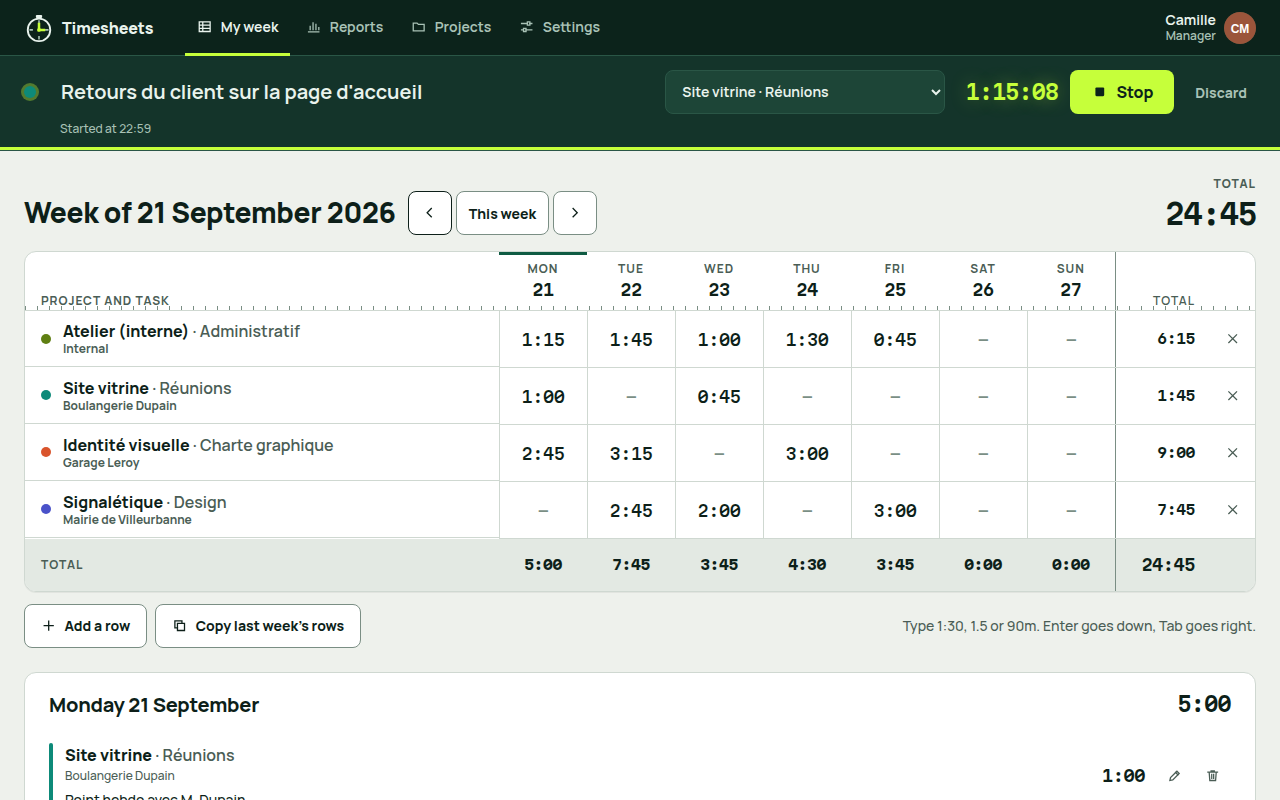
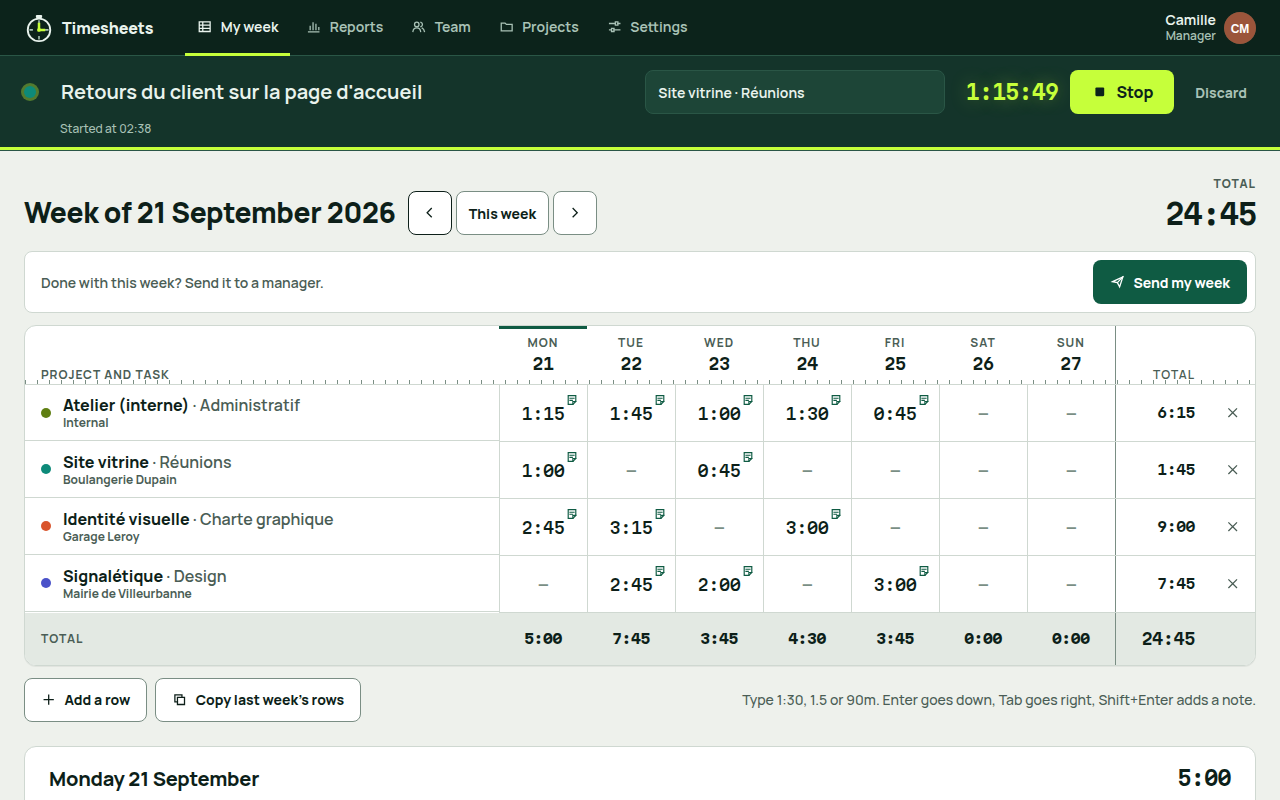
Timesheets after the critique: dated rates (a change never rewrites the past; person, project and cost rates; margin for managers only), weekly send and approve with a lock, a Team page of missing time with Remind, budget alerts at 80 and 100 percent, imports keep departed people and ask before lock
Claude-Session: https://claude.ai/code/session_01JLMdsrCCxLjBpzyUbVXNzX

diff --git a/tools/private/timesheets/app/chest/week-view.tsx b/tools/private/timesheets/app/chest/week-view.tsx
@@ -152,9 +152,9 @@ export function WeekView(props: {
         </div>
       </header>
 
-      {standing.approvals && (
+      {standing.approvals && (standing.status !== "open" || (standing.canSubmit && total > 0)) && (
         <div className={`standing ${standing.status}`} role="status">
-          {standing.status === "open" && standing.canSubmit && (
+          {standing.status === "open" && (
             <>
               <span>{t.week.sendHint}</span>
               <button type="button" className="button" disabled={pending} onClick={send}><Send />{t.week.send}</button>
@@ -162,14 +162,14 @@ export function WeekView(props: {
           )}
           {standing.status === "submitted" && (
             <>
-              <span className="state"><Send />{t.week.submitted}</span>
+              <span className="state"><Send /><span>{t.week.submitted}</span></span>
               <button type="button" className="button link" disabled={pending} onClick={takeBack}>{t.week.takeBack}</button>
             </>
           )}
-          {standing.status === "approved" && <span className="state"><Check />{standing.text}</span>}
+          {standing.status === "approved" && <span className="state"><Check /><span>{standing.text}</span></span>}
           {standing.status === "returned" && (
             <>
-              <span className="state">{standing.text}{standing.reason && <q className="reason">{standing.reason}</q>}</span>
+              <span className="state"><span>{standing.text} {standing.reason && <q className="reason">{standing.reason}</q>}</span></span>
               <button type="button" className="button" disabled={pending} onClick={send}><Send />{t.week.sendAgain}</button>
             </>
           )}
@@ -220,7 +220,8 @@ export function WeekView(props: {
                           const why = c.invoiced ? ` (${t.week.invoiced})` : "";
                           return (
                             <td key={d.day} className={classes + " ro"}>
-                              <span className="num" aria-label={`${label}: ${formatDuration(c.minutes)}${why}${c.note ? `. ${c.note}` : ""}`} title={c.note || undefined}>{c.minutes ? formatDuration(c.minutes) : ""}</span>
+                              <span className="num" aria-hidden="true" title={c.note || undefined}>{c.minutes ? formatDuration(c.minutes) : ""}</span>
+                              <span className="visually-hidden">{`${label}: ${formatDuration(c.minutes)}${why}${c.note ? `. ${c.note}` : ""}`}</span>
                               {c.note && <span className="note-dot static" aria-hidden="true" />}
                             </td>
                           );

diff --git a/tools/private/timesheets/app/globals.css b/tools/private/timesheets/app/globals.css
@@ -381,7 +381,8 @@ select.field { padding-right: var(--space-6); }
 
 /* ——— The week's standing in the approval ——— */
 .standing { display: flex; flex-wrap: wrap; align-items: center; justify-content: space-between; gap: var(--space-3); padding: var(--space-2) var(--space-2) var(--space-2) var(--space-4); margin-bottom: var(--space-3); border-radius: var(--radius-m); background: var(--surface); border: 1px solid var(--line); font-weight: 600; font-size: var(--text-s); min-height: 56px; }
-.standing .state { display: inline-flex; align-items: center; gap: var(--space-2); flex-wrap: wrap; }
+.standing .state { display: inline-flex; align-items: flex-start; gap: var(--space-2); flex: 1 1 16rem; min-width: 0; }
+.standing .state > svg { margin-top: 3px; }
 .standing.submitted { background: var(--accent-soft); border-color: var(--accent-soft); color: var(--accent); }
 .standing.approved { background: var(--accent-soft); border-color: var(--accent-soft); color: var(--accent); }
 .standing.returned { background: var(--warn-soft); border-color: var(--warn-soft); color: var(--warn); }
@@ -472,6 +473,7 @@ select.field { padding-right: var(--space-6); }
   }
   .tabs a { flex-direction: column; gap: 2px; min-height: 60px; font-size: var(--text-xs); border-bottom: 0; border-top: 3px solid transparent; flex: 1; justify-content: center; margin: 0; }
   .tabs a[aria-current="page"] { border-top-color: var(--signal); }
+  .tabs a { padding: 0 2px; white-space: nowrap; min-width: 0; }
   .tabs svg { width: 22px; height: 22px; }
   body { padding-bottom: 72px; }
   .toasts { bottom: 84px; }

diff --git a/tools/private/timesheets/app/chest/team/[member]/page.tsx b/tools/private/timesheets/app/chest/team/[member]/page.tsx
@@ -44,7 +44,7 @@ export default async function PersonWeekPage({ params, searchParams }: { params:
   }
   const statusText = state.status === "approved" ? format(t.week.approvedBy, { name: decider, date: state.decidedAt ? formatDate(state.decidedAt, zone(), locale, { day: "numeric", month: "short" }) : "" })
     : state.status === "returned" ? `${format(t.week.returnedBy, { name: decider })} “${state.reason}”`
-    : state.status === "submitted" ? t.team.states.sent : t.team.notSent;
+    : state.status === "submitted" ? format(t.team.sentOn, { date: state.submittedAt ? formatDate(state.submittedAt, zone(), locale, { weekday: "long", day: "numeric", month: "short" }) : "" }) : t.team.notSent;
   const link = (w: string) => `/chest/team/${memberId}?week=${w}`;
   return (
     <main className="page wide">
@@ -69,7 +69,7 @@ export default async function PersonWeekPage({ params, searchParams }: { params:
 
       {entries.length === 0 ? <div className="empty"><p>{t.team.emptyWeek}</p></div> : (
         <>
-          <div className="grid-scroll read">
+          <div className="grid-scroll read" tabIndex={0} role="region" aria-label={t.team.weeks}>
             <table className="grid">
               <thead>
                 <tr>

diff --git a/tools/private/timesheets/test/reports.test.ts b/tools/private/timesheets/test/reports.test.ts
@@ -109,3 +109,11 @@ test("the CSV is in the reader's language: French with ';' and decimal commas, n
   assert.equal((await GET(new Request(url))).status, 401);
   assert.equal((await GET(withMember(new Request(url), nora))).status, 403);
 });
+
+test("the CSV follows preset= alone (last week: nothing of this week)", async () => {
+  const url = "http://tool.test/chest/reports/export?preset=lastWeek";
+  const rows = (await (await GET(withMember(new Request(url), { ...camille, locale: "en" }))).text()).replace(/^/u, "").trim().split("\r\n");
+  const lastMonday = addDays(monday, -7);
+  assert.ok(rows.slice(1).every(r => r >= lastMonday && r < monday), rows.join("\n"));
+  assert.match((await GET(withMember(new Request(url), camille))).headers.get("Content-Disposition") ?? "", new RegExp(`temps-${lastMonday}-${addDays(lastMonday, 6)}`, "u"));
+});

diff --git a/tools/private/timesheets/app/chest/people/page.tsx b/tools/private/timesheets/app/chest/people/page.tsx
@@ -49,7 +49,7 @@ export default async function PeoplePage() {
       week: mine,
       billText: bill.length ? describe(bill).join(" · ") : null,
       costText: cost.length ? describe(cost).join(" · ") : null,
-      weekText: formatDuration(mine ?? s.reminder.minutes) + (mine === null ? ` (${t.people.companyWeek})` : ""),
+      weekText: formatDuration(mine ?? s.reminder.minutes) + (mine === null ? ` · ${t.people.companyWeek}` : ""),
       steps: [...bill.map(x => ({ kind: "bill" as const, from: x.from, label: describe([x])[0]! })), ...cost.map(x => ({ kind: "cost" as const, from: x.from, label: describe([x])[0]! }))].filter(x => s.lockedUntil === null || x.from > s.lockedUntil),
     };
   }).sort((a, b) => a.name.localeCompare(b.name, locale));

diff --git a/tools/private/timesheets/app/chest/people/people-view.tsx b/tools/private/timesheets/app/chest/people/people-view.tsx
@@ -79,7 +79,7 @@ export function PersonRow({ person, today, lockedUntil, companyWeek, currency, c
         <dl className="person-facts">
           <div><dt>{w.bill}</dt><dd>{person.billText ?? <span className="muted">{w.noRate}</span>}</dd></div>
           <div><dt>{w.cost}</dt><dd>{person.costText ?? <span className="muted">{w.noRate}</span>}</dd></div>
-          <div><dt>{w.week}</dt><dd className="num">{person.weekText}</dd></div>
+          <div><dt>{w.week}</dt><dd>{person.weekText}</dd></div>
         </dl>
       ) : (
         <form className="person-form" onSubmit={e => { e.preventDefault(); save(); }}>

diff --git a/tools/private/timesheets/lib/i18n/fr.ts b/tools/private/timesheets/lib/i18n/fr.ts
@@ -216,6 +216,7 @@ export const fr: Catalogue = {
     remind: { one: "Rappeler {count} personne", other: "Rappeler {count} personnes" },
     reminded: { zero: "Plus personne à rappeler.", one: "{count} personne rappelée dans sa cloche.", other: "{count} personnes rappelées dans leur cloche." },
     notSent: "Pas encore envoyée.",
+    sentOn: "Envoyée pour validation le {date}.",
     ofUsual: "{billable} facturables · semaine normale {usual}",
     emptyWeek: "Aucun temps cette semaine.",
     notes: "Saisies et notes",

diff --git a/tools/private/timesheets/app/chest/team/team-view.tsx b/tools/private/timesheets/app/chest/team/team-view.tsx
@@ -19,7 +19,7 @@ export function WaitingRow({ memberId, week, name, photo, label, hours, t }: { m
       <Avatar name={name} photo={photo} />
       <span className="waiting-who">
         <Link href={`/chest/team/${memberId}?week=${week}`}><strong>{name}</strong></Link>
-        <span className="small muted">{label} · <span className="num">{hours}</span></span>
+        <span className="small muted">{label} · {hours}</span>
       </span>
       <Decision memberId={memberId} week={week} name={name} t={t} />
     </li>

diff --git a/tools/private/timesheets/lib/i18n/en.ts b/tools/private/timesheets/lib/i18n/en.ts
@@ -216,6 +216,7 @@ export const en = {
     remind: { one: "Remind {count} person", other: "Remind {count} people" },
     reminded: { zero: "Nobody to remind any more.", one: "{count} person reminded in their bell.", other: "{count} people reminded in their bell." },
     notSent: "Not sent yet.",
+    sentOn: "Sent for approval on {date}.",
     ofUsual: "{billable} billable · usual week {usual}",
     emptyWeek: "No time in this week.",
     notes: "Entries and notes",

diff --git a/tools/private/timesheets/README.md b/tools/private/timesheets/README.md
@@ -8,7 +8,8 @@ the hour and wants to know where its time goes.
 ## What it does
 
 - **A timer on top of every page**: "What are you working on?", a project
-  (and task), *Start*. One timer per person, kept on the server (its start
+  (and task) found by typing a few words of it (a searchable picker, also
+  in the grid and the day list), *Start*. One timer per person, kept on the server (its start
   instant): it survives a reload, a closed tab, another device (pages
   re-read it every minute and when they come back into view). *Stop* turns
   it into an entry of the day it started, in the Chest's time zone. A timer
@@ -19,6 +20,13 @@ the hour and wants to know where its time goes.
   tested). Totals per day, row and week; *Copy last week's rows*; rows
   added and removed (with *Undo*). Enter and the arrows move down and up the
   column, Tab to the right. A cell holding several entries opens the day.
+  **Each cell has its note** (the note icon, or Shift+Enter): what the
+  time was for, as the client's invoice will say it.
+- **Send my week, approval**: a person sends their week; it waits
+  read-only (they may take it back). A manager approves it — it locks: no
+  one changes it any more — or sends it back with a word, which the person
+  reads on their week. The bell tells the managers of a week to approve,
+  and the person of the answer. The company may turn approvals off.
 - **The day list**: each entry with its project, task, note, time of day
   (from the timer) and billable mark; add, change, delete with *Undo*. **On a
   phone the day list replaces the grid**, with a strip of the week's days.
@@ -27,9 +35,29 @@ the hour and wants to know where its time goes.
   ("203:45 of 220:00 — Almost spent"), tasks (Design, Development,
   Meetings…), closed projects, and who records time on it: everyone, or
   chosen people (only their projects are offered to them).
+- **Rates with a history** (managers): a billable rate per project, per
+  person (their usual rate) and per person on a project (a senior billed
+  more), and a **cost rate** per person. Every rate applies **from a day**:
+  an entry's amount uses the rate in force on its day, so raising a rate
+  never rewrites last year's amounts (a new rate cannot start inside the
+  locked period). An entry's rates are written on it for good once it is
+  invoiced, imported with the old tool's rates, or its author erased.
+- **Budget alerts**: when a project crosses 80 % and then 100 % of its
+  budget (hours, or billable amount), the managers get one bell item each
+  time (checked when time or a budget changes).
+- **Team** (managers): the weeks to approve (one by one, or all); everyone's
+  hours over four weeks against their usual week (the company's 35 h, or
+  their own), who is short in red, and *Remind* — one bell item in each
+  person's language. A person's week opens read-only with every note.
 - **Reports**: this week, last week, this month, last month or chosen days;
-  grouped by project, client, person or task; billable or not; amounts from
-  the rates (managers); a bar per day (per week beyond two months); budgets.
+  grouped by project, client, person or task; billable or not, or
+  billable and not invoiced yet; for managers the amount, the cost and the
+  **margin** (at the rates in force on each day); a warning for billable
+  time without a note; a bar per day (per week beyond two months); budgets.
+  Hours written 4:05 or 4.08, as the company chooses.
+- **Invoiced time** (managers): in "Billable, not invoiced", *Mark N
+  entries as invoiced* once the invoice is out; that time locks and keeps
+  its rates; *Undo* puts it back.
   **CSV export in the reader's language** (French: `;` and decimal commas),
   protected against formula injection. Members see only their own time.
 - **Locked periods**: a manager locks everything up to a date (after
@@ -40,11 +68,18 @@ the hour and wants to know where its time goes.
   and word order aside), clients, projects and tasks created as needed, a
   preview first (who was found, what will be created, what is left out and
   why, day/month order when the dates are ambiguous). Importing the same
-  file twice adds nothing.
+  file twice adds nothing. **People who left before the Chest are kept**
+  as former members (their name, their time, read-only; a manager may
+  forget the name later). Rows in the locked period (or an approved week)
+  are imported **only if the manager answers "Yes, it's history"** — the
+  page asks. Harvest's Billable/Cost Rate and Clockify's rate columns (and
+  Toggl's Amount) come along when in the Chest's currency, so past amounts
+  match the old invoices; Harvest rows marked invoiced come in invoiced.
 - **Friday reminder** (optional, a schedules proposal): on Friday at 15:30,
-  whoever has fewer hours than the threshold (35 h by default) gets one bell
+  whoever is short of their usual week and has not sent it gets one bell
   item in their language — "Your week has 22 h — fill in the rest?". It can
-  be turned off; everything else works without it.
+  be turned off; everything else works without it (the Team page's
+  *Remind* works on any Chest).
 
 It is **not** your company's official working-hours register unless you
 decide so, and it never watches anyone: no screenshots, no activity levels,
@@ -54,8 +89,8 @@ no idle detection.
 
 | Role | Can |
 |---|---|
-| `manager` (Manager / Responsable) | Everything a member can; clients, projects, tasks, rates, budgets, who works on what; everyone's reports, amounts and CSV; locking; import; the reminder's setting |
-| `member` (Member / Membre) | Their own time (timer, week, day) on the projects open to them; their own reports and CSV (no rates) |
+| `manager` (Manager / Responsable) | Everything a member can; clients, projects, tasks, rates and cost rates, usual weeks, budgets, who works on what; approving weeks and reminding; everyone's reports, amounts, costs, margins and CSV; marking time invoiced; locking; import; settings |
+| `member` (Member / Membre) | Their own time (timer, week, day, notes) on the projects open to them; sending their week; their own reports and CSV (never a rate or an amount) |
 
 Nobody changes another person's time. The rules live in `lib/access.ts`;
 every service checks them on the server.
@@ -70,12 +105,15 @@ every service checks them on the server.
   Or type `1:30` in a cell of the week.
 - **Clicks for the main job**: 1 (Start), 1 (Stop). Filling a day in the
   grid: a click and a few keys per cell.
+- **Friday**: *Send my week* above the grid; the answer comes in the bell.
 - **A mistake**: a wrong duration is refused with an example of what works
   and the cell keeps its old value; a deleted entry or row comes back with
   *Undo*; a discarded timer too; a forgotten timer asks instead of counting
   a night; a locked day says why and who to ask.
 - **A new manager**: *Projects* is empty and offers *New project* or *Add an
-  example project*, and the import from Toggl, Clockify or Harvest.
+  example project*, and the import from Toggl, Clockify or Harvest. A
+  member who asks a managers' page reads "This page is for managers"
+  (HTTP 403), not an error.
 
 ## Routes
 
@@ -83,10 +121,13 @@ every service checks them on the server.
 |---|---|
 | `/` | Public host: says the tool lives in the Chest (language switch) |
 | `/chest` | My week (`?week=` a Monday, `?day=` the day listed) |
-| `/chest/reports` | Reports (`preset`, `from`, `to`, `group`, `person`, `kind`) |
-| `/chest/reports/export` | The report's entries as CSV |
-| `/chest/projects`, `/new`, `/[id]` | Clients and projects (managers) |
-| `/chest/settings` | Locked period, Friday reminder (managers) |
+| `/chest/reports` | Reports (`preset`, `from`, `to`, `group`, `person`, `kind`: `all`, `billable`, `non`, `uninvoiced`) |
+| `/chest/reports/export` | The report's entries as CSV (the same parameters; `preset` alone works) |
+| `/chest/projects`, `/new`, `/[id]` | Clients and projects, rates by person on a project (managers) |
+| `/chest/team` | Weeks to approve, hours per week against the usual week, Remind (managers; `until` a Monday) |
+| `/chest/team/[member]` | One person's week, read-only, with notes; approve or send back (`week` a Monday) |
+| `/chest/people` | Rates, cost rates and usual weeks of each person; former people of imports (managers) |
+| `/chest/settings` | Locked period, weekly approval, usual week and Friday reminder, hours style (managers) |
 | `/chest/import` | Import from Toggl, Clockify, Harvest (managers) |
 | `/chest-events` | Members' lifecycle (signed by the Chest) |
 | `/chest-jobs/friday` | The Friday reminder (schedules proposal, signed) |
@@ -98,11 +139,13 @@ every service checks them on the server.
 - **Someone leaves** (or loses access): their running timer stops and
   becomes an entry when plausible (under 10 hours, in an open day; dropped
   otherwise), they leave the projects they were named on, their grid rows
-  go. Their time stays — reports and invoices need it — and reads "Camille
-  Martin (former member)". **An erasure**: the same, then their entries stay
-  for the company's accounts with the author `erased` ("Former member") and
-  their notes cleared; a lock they set forgets who set it; the erasure is
-  acknowledged.
+  go. Their time and rates stay — reports and invoices need them — and read
+  "Camille Martin (former member)". **An erasure**: the same, then their
+  entries stay for the company's accounts with their rates written on them
+  (the amounts do not move), the author `erased` ("Former member") and
+  their notes cleared; their own rates, usual week and approval rows go; a
+  lock, rate, approval or invoicing they did forgets who did it; the
+  erasure is acknowledged.
 - **Nothing runs in the background**: deleted entries are purged after 30
   days on a later request. No WebSocket: pages re-read themselves every
   minute while visible (the timer's state from another device).
@@ -117,6 +160,14 @@ every service checks them on the server.
   day an entry belongs to, "this week"), `currency()` (rates and amounts).
 - `schedules` — **Proposal (studio)**, `chest.proposals.json`: the Friday
   reminder. Without it the tool is complete; the setting says so.
+- **Wished — events between tools, for invoicing**: the hand-off of
+  "Billable, not invoiced" time to the Quotes tool (a draft invoice per
+  client) is a suite link for later: `events.publish("timesheets.billable",
+  {client, lines[]})` and Quotes answering `quotes.invoiced` so the time is
+  marked invoiced by itself. Today a manager marks it by hand.
+- **Wished — a start-timer event from Tasks**: Toggl and Clockify users start
+  timers from their task tool; with events between tools, Tasks could send
+  `tasks.timer.start` (a task's title as the note).
 - **Wished**: `members.list({ q })` matching on full names returns
   candidates, but an import needs "who is *exactly* this name" for
   thousands of rows; today the tool lists everyone once (2,000 people at
@@ -138,8 +189,19 @@ In the studio: `node lab/chest-dev/dev.mjs tools/private/timesheets --prod --res
 
 ## What it does not do (yet)
 
-Invoicing (the Quotes tool's job), weekly submission and approval, rates
-per person or rate history (a changed rate changes past amounts), a
-calendar/timeline view, tags, punch-in/out for legal working hours, Toggl's
-JSON data export, an entry's edit history, several running timers. Never:
-screenshots, activity or idle tracking.
+- **Invoices**: it marks time invoiced, it does not write the invoice; the
+  hand-off to the Quotes tool waits for events between tools (above).
+- **No integrations or browser extension**: no timer started from Jira,
+  Asana, Trello or GitHub, no calendar sync. Time is recorded here, on the
+  phone or the computer.
+- No calendar/timeline view, no tags, no favourites; one running timer per
+  person.
+- Budget alerts go to every manager (there is no "project manager" per
+  project yet) and are checked when time or a budget changes, not when a
+  person's rate changes.
+- Approval is weekly and for every person alike (no approval by project
+  manager, no monthly periods).
+- No export of the projects and clients themselves (their time exports as
+  CSV); no Toggl JSON data export import; no entry edit history;
+  punch-in/out for legal working hours is not this tool.
+- Never: screenshots, activity or idle tracking.

diff --git a/tools/private/timesheets/AGENTS.md b/tools/private/timesheets/AGENTS.md
@@ -13,11 +13,16 @@ first; this page is the map and the rules.
 | `lib/days.ts`, `lib/periods.ts` | Days, weeks (Monday), wall clocks in a zone, report periods (browser-safe) |
 | `lib/clock.ts` | The Chest's time zone and currency (`@argentic/chest-sdk/chest`), `clock.now` (tests move it) |
 | `lib/projects.ts` | Clients, projects, tasks, people, budgets; `offeredProjects`, `writable` |
-| `lib/entries.ts` | Entries, the week grid (`week`, `saveCell`, rows), the day list; the 24-hour rule |
+| `lib/entries.ts` | Entries, the week grid (`week`, `saveCell`, `setNote`, rows), the day list; the 24-hour rule; `checkOpen` (lock + closed week) |
+| `lib/rates.ts` | Rates with a history (billable per project / person / person on a project, cost per person); SQL `bill_rate()`/`cost_rate()` resolve by the entry's day; `fixRates` writes them on entries for good |
+| `lib/weeks.ts` | Send / take back / approve / send back a week (`weekLock`), the team's weeks, usual weeks (`capacities`), *Remind*, a person's week for a manager |
+| `lib/budgets.ts` | Budget alerts at 80 and 100 %, once per threshold (`budget_alerts`) |
+| `lib/invoicing.ts` | Mark a report's billable time invoiced (locks it, fixes its rates), and undo |
+| `lib/tx.ts` | `transaction()` (one transaction, or the caller's) |
 | `lib/timer.ts` | The running timer; forgotten timers; the leaver's timer |
 | `lib/reports.ts` | Reports and export rows, scoped to the actor in SQL |
-| `lib/settings.ts` | Locked period, reminder |
-| `lib/import-formats.ts`, `lib/import.ts` | Toggl/Clockify/Harvest CSV → plan → import (idempotent by fingerprint) |
+| `lib/settings.ts` | Locked period, usual week and reminder, approvals on/off, hours style |
+| `lib/import-formats.ts`, `lib/import.ts` | Toggl/Clockify/Harvest CSV → plan → import (idempotent by fingerprint); former people (`imp_…` authors, `former_people`); locked rows only when asked; the old tool's rates |
 | `lib/reminder.ts`, `app/chest-jobs/` | The Friday reminder (schedules proposal) |
 | `lib/lifecycle.ts`, `app/chest-events/` | Leave, erasure |
 | `app/chest/actions.ts` | Server actions: thin, `act(actor => service(...))` |
@@ -41,8 +46,17 @@ TEST_DATABASE_URL=postgres://postgres:postgres@127.0.0.1:5432/postgres npm test
   actor.id`; reports force the member's own id unless `reports.all`.
 - **Writes that touch a person's day** take the person's advisory lock and
   end with `checkDayTotal` inside the same transaction.
-- **Locked days**: check `isLocked` for the old *and* the new day of any
-  change.
+- **Locked days**: every write to a person's day goes through
+  `checkOpen(tx, memberId, day)` (locked period, week sent or approved) for
+  the old *and* the new day, and refuses an invoiced entry (`invoiced`).
+- **Money**: never read `projects.rate_cents` for an amount (it is only a
+  mirror for the previous version); use `revenueOf`/`costOf`/`billRateOf`
+  from `lib/rates.ts`. Amounts and costs are computed for managers only.
+- **After a write that changes time or a budget**, call `checkBudgets`
+  (outside the transaction; it never fails the write).
+- **Authors**: an entry's `member_id` is `mbr_…`, `erased`, or `imp_<n>` (a
+  former person of an import, named in `former_people`); `people()` resolves
+  all three.
 - **Days vs instants**: an entry has a `day` (the Chest's calendar day) and
   optional instants; format days with `formatDay` (UTC), instants with the
   zone from `lib/clock.ts`. Never hard-code a zone or a currency.

diff --git a/tools/private/timesheets/THIRD_PARTY.md b/tools/private/timesheets/THIRD_PARTY.md
@@ -5,6 +5,8 @@
 | Manrope (font) | [sharanda/manrope](https://github.com/sharanda/manrope), via `@fontsource-variable/manrope` 5.3.0 | OFL-1.1 | `public/fonts/`, licence in `public/fonts/LICENSE-manrope.txt` |
 | Martian Mono (font) | [evilmartians/mono](https://github.com/evilmartians/mono), via `@fontsource-variable/martian-mono` 5.3.0 | OFL-1.1 | `public/fonts/`, licence in `public/fonts/LICENSE-martian-mono.txt` |
 | Export column names of Toggl Track, Clockify, Harvest (facts) | solidtime's importers, [solidtime-io/solidtime](https://github.com/solidtime-io/solidtime) `app/Service/Import/Importers/` (read 2026-09-28) | AGPL-3.0 | `lib/import-formats.ts` knows the same column names; **no code copied**, the parser is our own |
+| Harvest's detailed time export money columns (facts): `Billable Rate`, `Billable Amount`, `Cost Rate`, `Cost Amount`, `Currency`, `Invoiced?`, `Approved?` | Harvest Help Center, "Detailed time and detailed expense reports", https://support.getharvest.com/hc/en-us/articles/360048687171-Detailed-time-and-detailed-expense-reports (read through search results 2026-09-29; the page itself is blocked by this environment's egress) | facts | `lib/import-formats.ts`, the realistic file in `test/import.test.ts` |
+| Ideas: weekly submit and approve, per-person billable and cost rates, team capacity view, budget alerts at 80/100 % (Harvest, Clockify) | their public feature pages, as the critique `reports/05-critique/timesheets.md` lists them | — | features only |
 | Ideas: lock dates, budgets (Kimai); timer line, importers (solidtime); weekly grid (Harvest) | see `reports/02-open-source/timesheets.md` in the studio | AGPL-3.0 (Kimai, solidtime) | features only, no code |
 
 Dependencies installed from npm under their own licences: `next`, `react`,
